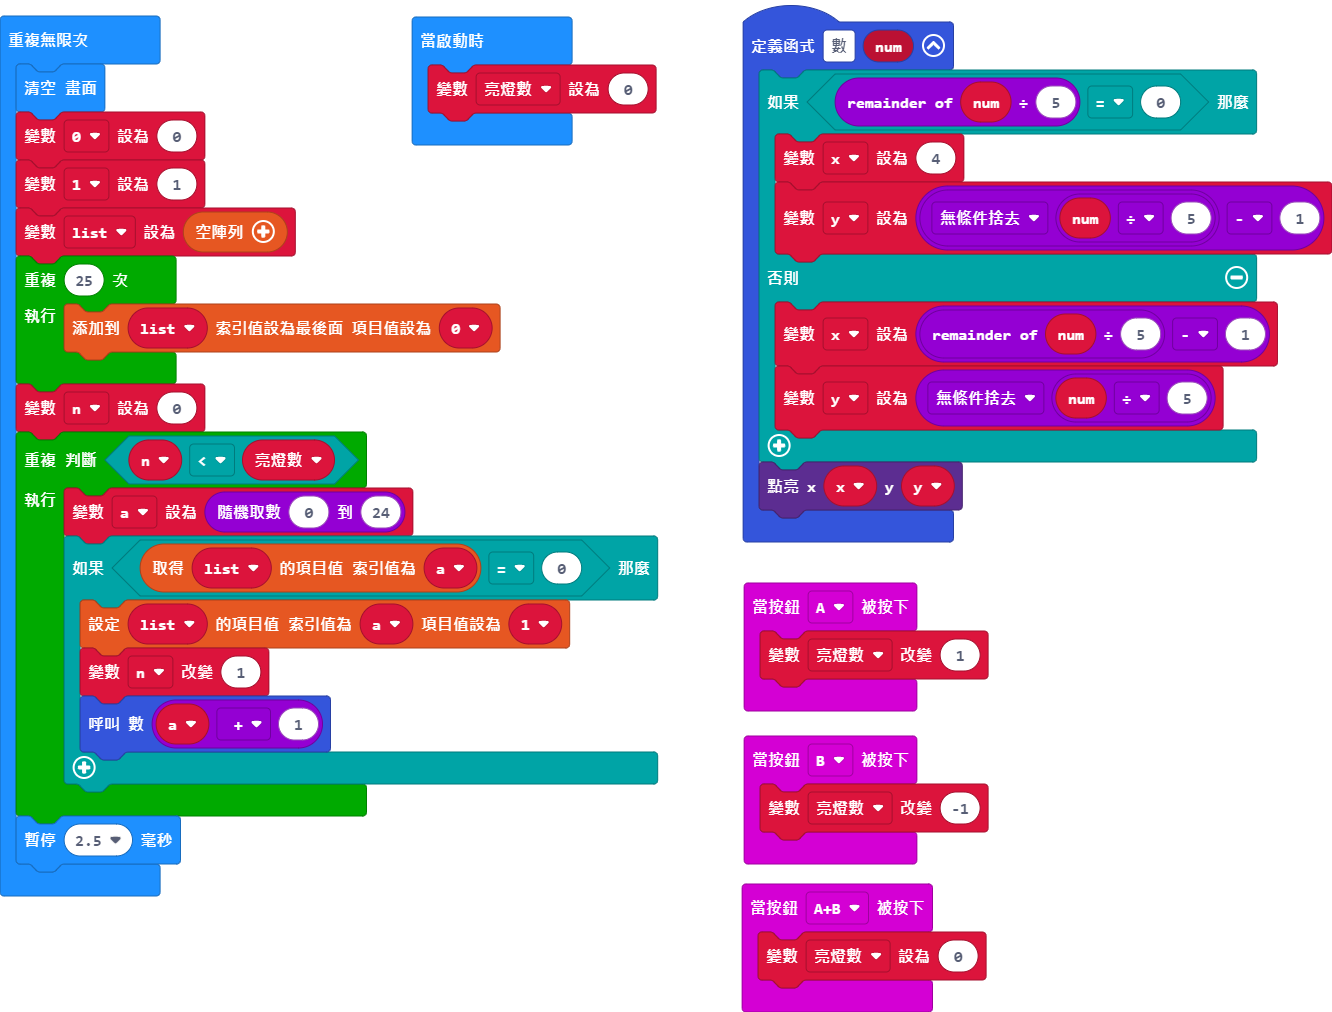
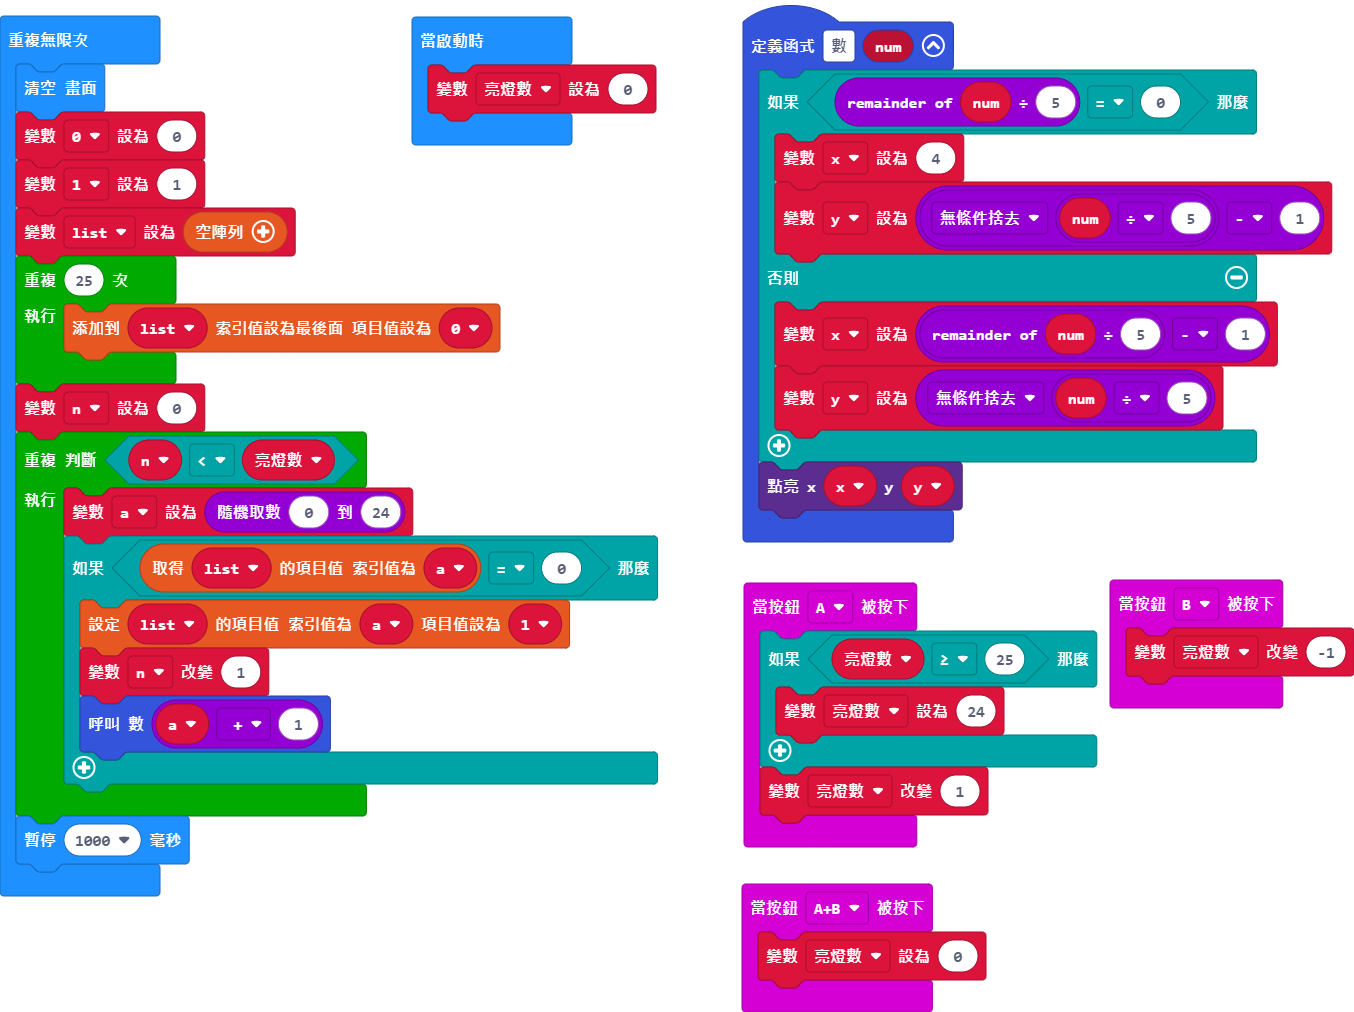
更新 main.blocks, main.ts

diff --git a/main.ts b/main.ts
@@ -1,4 +1,7 @@
 input.onButtonPressed(Button.A, function () {
+    if (亮燈數 >= 25) {
+        亮燈數 = 24
+    }
     亮燈數 += 1
 })
 input.onButtonPressed(Button.AB, function () {
@@ -43,5 +46,5 @@ basic.forever(function () {
             數(a + 1)
         }
     }
-    basic.pause(2.5)
+    basic.pause(1000)
 })
